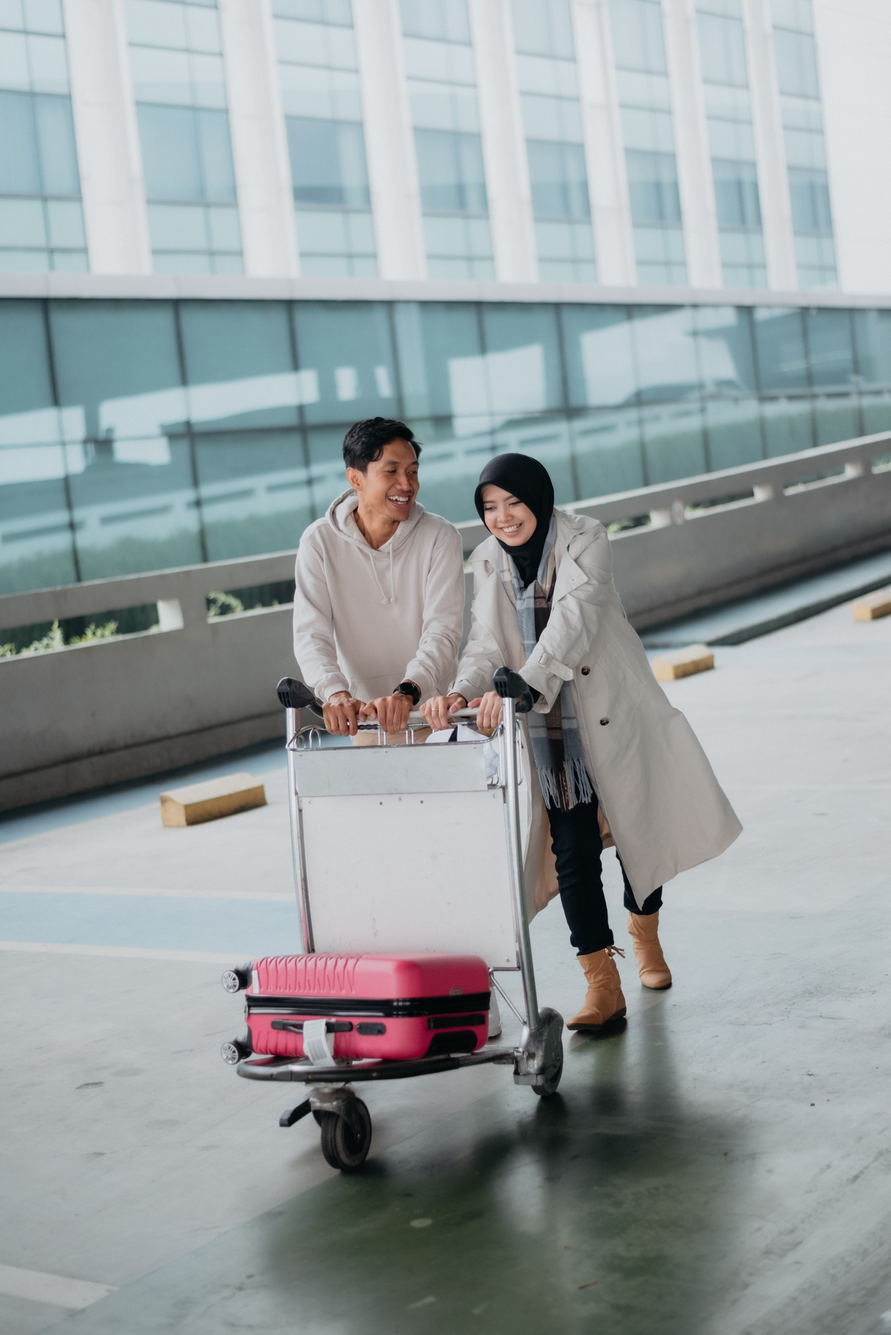
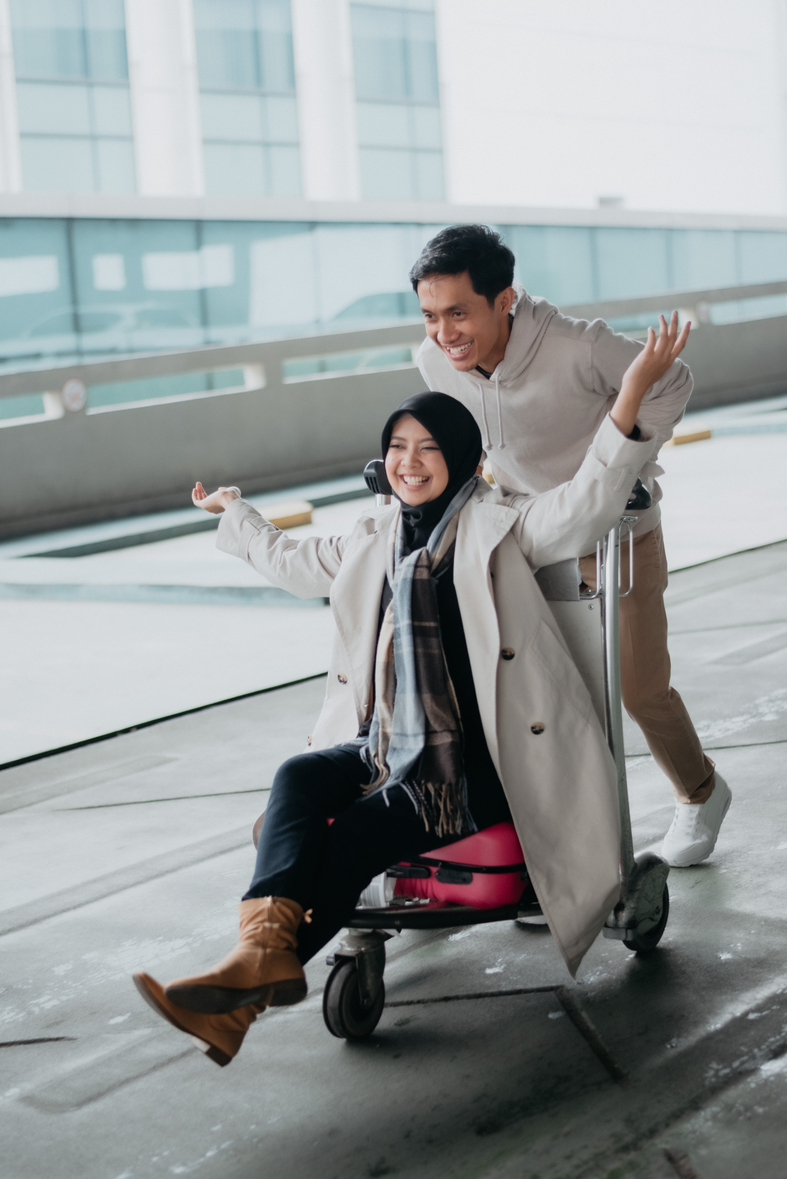
update cover, hero

diff --git a/assets/css/style.css b/assets/css/style.css
@@ -30,6 +30,14 @@ p {
   font-size: large;
 }
 
+.btn-open {
+  border-color: #ffffff;
+  border-radius: 50px;
+  color: #ffffff;
+  padding-left: 20px;
+  padding-right: 20px;
+}
+
 /*---------------------------------------
   BACKGROUND              
 -----------------------------------------*/
@@ -161,11 +169,12 @@ p {
 .cover .cover-text {
   position: absolute;
   z-index: 9;
-  top: 50%;
-  left: 50%;
-  transform: translate(-50%, -50%);
-  width: 85%;
-  text-align: center;
+  bottom: 10%;
+  left: 10%;
+  transform: translate(-10%, -10%);
+  width: 100%;
+  text-align: left;
+  color: white;
 }
 
 .cover {
@@ -401,17 +410,17 @@ p {
 }
 
 .about-image {
-  width: 12em;
-  height: 12em;
+  width: 20em;
+  height: 20em;
   padding: 1rem;
   background-image: url(../img/hero-img.jpg);
   background-size: cover;
   background-position: center;
   background-repeat: no-repeat;
[1 lines of base64/hex data omitted]
-  mask-size: 12em 12em;
+  mask-size: 20em 20em;
[1 lines of base64/hex data omitted]
-  -webkit-mask-size: 12em 12em;
+  -webkit-mask-size: 20em 20em;
   mask-repeat: no-repeat;
   mask-position: center;
 }

diff --git a/index.html b/index.html
@@ -50,19 +50,20 @@
               <div class="info d-flex align-items-center">
                 <div class="container">
                   <div class="row justify-content-center">
-                    <div class="col-lg-6 cover-text">
-                      <h1 class="mt-3 mb-3" data-aos="fade-up">Arin &amp; Indra</h1>
-                      <p class="pt-3 mb-0" data-aos="fade-up">Kepada Yth, Bapak / Ibu / Saudara / i</p>
-                      <p id="name" class="pt-3 mb-4" data-aos="fade-up">Nama Tamu</p>
-                        <a type="button" class="btn btn-secondary" data-bs-dismiss="modal" data-dismiss="modal" id="open" data-aos="fade-up">Buka Undangan</a>
+                    <div class="col-auto cover-text">
+                      <h1 data-aos="fade-up">Arin &amp; Indra</h1>
+                      <p class="py-1" data-aos="fade-up">Kepada Yth, Nama Tamu</p>
+                      <div class="col-auto text-center pt-5">
+                        <a type="button" class="btn btn-open" data-bs-dismiss="modal" data-dismiss="modal" id="open" data-aos="fade-up"><i class="bi bi-envelope-open-heart"></i>&nbsp; Buka Undangan</a>
+                      </div>
                     </div>
                   </div>
                 </div>
               </div>
           
-              <div id="hero-carousel" class="carousel slide" data-bs-ride="carousel" data-bs-interval="5000">
+              <div id="hero-carousel" class="carousel slide" data-bs-ride="carousel" data-bs-interval="2000">
           
-                <div class="carousel-item active" style="background-image: url(assets/img/hero-img.jpg)">
+                <div class="carousel-item active" style="background-image: url(assets/img/gallery-pic-0.jpg)">
                 </div>
                 <div class="carousel-item" style="background-image: url(assets/img/gallery-pic-1.jpg)"></div>
                 <div class="carousel-item" style="background-image: url(assets/img/gallery-pic-2.jpg)"></div>
@@ -92,10 +93,11 @@
       </div>
       <div class="hero align-self-center text-center col-md-8 offset-md-2">
         <div class="hero-text">
-          <p data-aos="fade-up" data-aos="fade-up">The Wedding Ceremony of</p>
-          <h1 class="mt-3 mb-3" data-aos="fade-up">Arin &amp; Indra</h1>
-          <p class="pt-3 mb-0" data-aos="fade-up">Save The Date</p>
-          <div id="countdown" data-aos="fade-up">
+          <p >The Wedding Ceremony of</p>
+          <h1 class="mt-3 mb-3" >Arin &amp; Indra</h1>
+          <div class="about-image mx-auto mb-3" ></div>
+          <p class="pt-3 mb-0" >⇝ Sabtu, 01 Juli 2023 ⇜</p>
+          <div id="countdown" >
             <ul class="p-0">
               <li class="text-center"><span id="days" class="align-items-center"></span>Hari</li>
               <li class="text-center"><span id="hours" class="align-items-center"></span>Jam</li>
@@ -113,17 +115,23 @@
         <img src="assets/img/flower-3-min.png" class="about-divider position-absolute my-3"/>
       </div>
       <div class="text-center mt-3">
-        <div class="about-image mx-auto mb-3" data-aos="fade-up"></div>
+        <!-- <div class="about-image mx-auto mb-3" data-aos="fade-up"></div> -->
         <h2 data-aos="fade-up">Aswarin Prastiani, SKM.</h2>
-        <p class="about-parents mx-auto" data-aos="fade-up">
-          Putri pertama dari : <br />Drs. Budi Priyatmono, MH <br />&<br />
+        <p class="about-parents mx-auto mb-1" data-aos="fade-up">
+          Putri pertama dari : 
+        </p>
+        <p class="about-parents mx-auto"  data-aos="fade-up">
+          Drs. Budi Priyatmono, MH <br />&<br />
           Astianingsih
         </p>
         <h1 data-aos="fade-up">&amp;</h1>
-        <div class="about-image mx-auto mb-3" data-aos="fade-up"></div>
+        <!-- <div class="about-image mx-auto mb-3" data-aos="fade-up"></div> -->
         <h2 data-aos="fade-up">dr. Indra Putra Prakasa</h2>
-        <p class="about-parents mx-auto" data-aos="fade-up">
-          Putra pertama dari : <br />Drs. Bardono <br />&<br />
+        <p class="about-parents mx-auto mb-1" data-aos="fade-up">
+          Putra pertama dari : 
+        </p>
+        <p class="about-parents mx-auto"  data-aos="fade-up">
+          Drs. Bardono <br />&<br />
           Ely Rahmawati
         </p>
       </div>
@@ -176,28 +184,28 @@
         </div>
 
         <div class="row gy-3 pb-5">
-          <div class="col-lg-4 gallery-item" data-aos="fade-up">
-            <a href="assets/img/gallery-pic-1.jpg" class="glightbox"><img src="assets/img/gallery-pic-1.jpg" class="gallery-img img-fluid" alt=""></a>  
+          <div class="col-lg-4 col-6 gallery-item" data-aos="fade-up">
+            <a href="assets/img/gallery-pic-1.jpg" class="glightbox"><img src="assets/img/gallery-pic-1.jpg" class="gallery-img img-fluid rounded-3" alt=""></a>  
           </div>
 
-          <div class="col-lg-4 gallery-item" data-aos="fade-up">
-            <a href="assets/img/gallery-pic-2.jpg" class="glightbox"><img src="assets/img/gallery-pic-2.jpg" class="gallery-img img-fluid" alt=""></a>
+          <div class="col-lg-4 col-6 gallery-item" data-aos="fade-up">
+            <a href="assets/img/gallery-pic-2.jpg" class="glightbox"><img src="assets/img/gallery-pic-2.jpg" class="gallery-img img-fluid rounded-3" alt=""></a>
           </div>
 
-          <div class="col-lg-4 gallery-item" data-aos="fade-up">
-            <a href="assets/img/gallery-pic-3.jpg" class="glightbox"><img src="assets/img/gallery-pic-3.jpg" class="gallery-img img-fluid" alt=""></a>  
+          <div class="col-lg-4 col-6 gallery-item" data-aos="fade-up">
+            <a href="assets/img/gallery-pic-3.jpg" class="glightbox"><img src="assets/img/gallery-pic-3.jpg" class="gallery-img img-fluid rounded-3" alt=""></a>  
           </div>
 
-          <div class="col-lg-4 gallery-item" data-aos="fade-up">
-            <a href="assets/img/gallery-pic-4.jpg" class="glightbox"><img src="assets/img/gallery-pic-4.jpg" class="gallery-img img-fluid" alt=""></a>  
+          <div class="col-lg-4 col-6 gallery-item" data-aos="fade-up">
+            <a href="assets/img/gallery-pic-4.jpg" class="glightbox"><img src="assets/img/gallery-pic-4.jpg" class="gallery-img img-fluid rounded-3" alt=""></a>  
           </div>
 
-          <div class="col-lg-4 gallery-item" data-aos="fade-up">
-            <a href="assets/img/gallery-pic-5.jpg" class="glightbox"><img src="assets/img/gallery-pic-5.jpg" class="gallery-img img-fluid" alt=""></a>  
+          <div class="col-lg-4 col-6 gallery-item" data-aos="fade-up">
+            <a href="assets/img/gallery-pic-5.jpg" class="glightbox"><img src="assets/img/gallery-pic-5.jpg" class="gallery-img img-fluid rounded-3" alt=""></a>  
           </div>
 
-          <div class="col-lg-4 gallery-item" data-aos="fade-up">
-            <a href="assets/img/gallery-pic-6.jpg" class="glightbox"><img src="assets/img/gallery-pic-6.jpg" class="gallery-img img-fluid" alt=""></a>      
+          <div class="col-lg-4 col-6 gallery-item" data-aos="fade-up">
+            <a href="assets/img/gallery-pic-6.jpg" class="glightbox"><img src="assets/img/gallery-pic-6.jpg" class="gallery-img img-fluid rounded-3" alt=""></a>      
           </div>
         </div>
 
